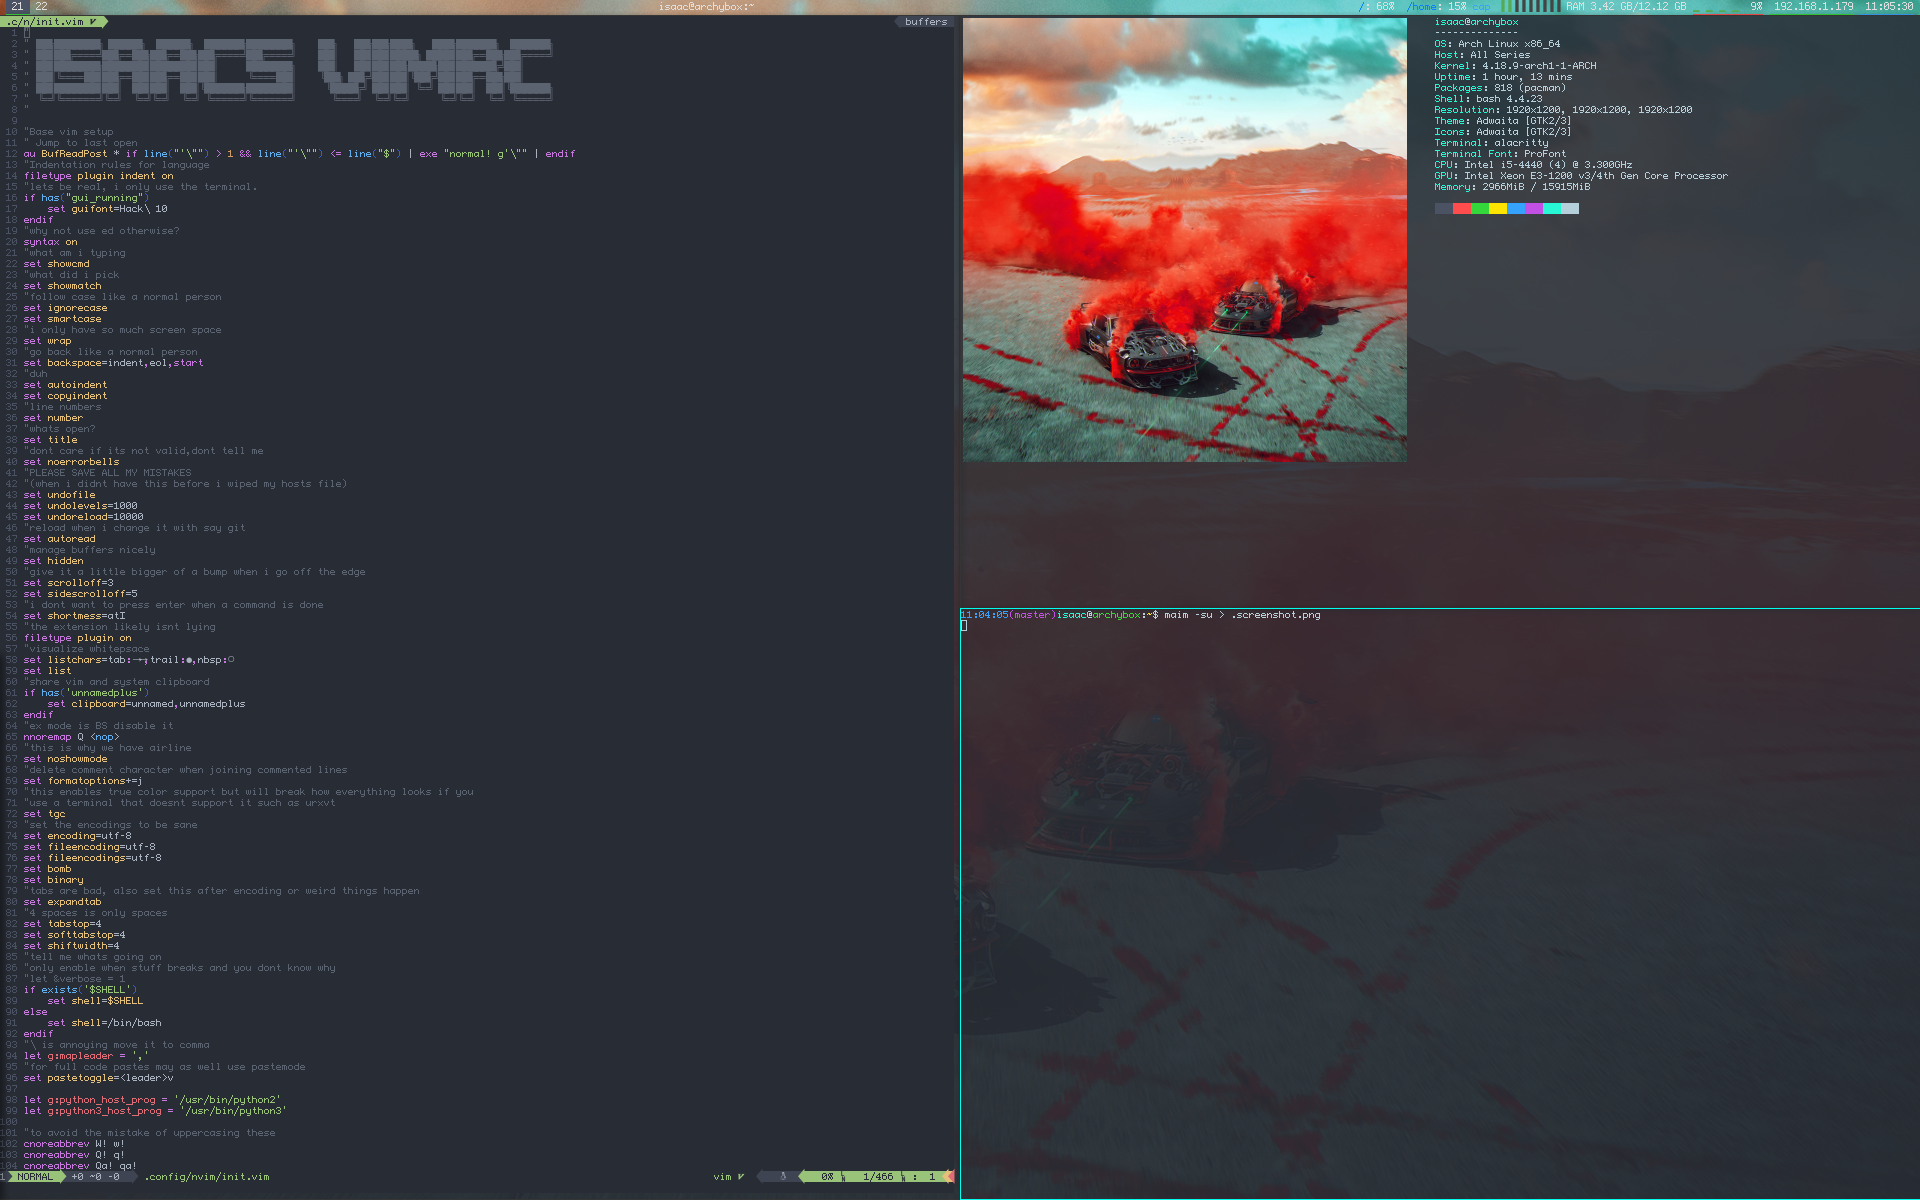
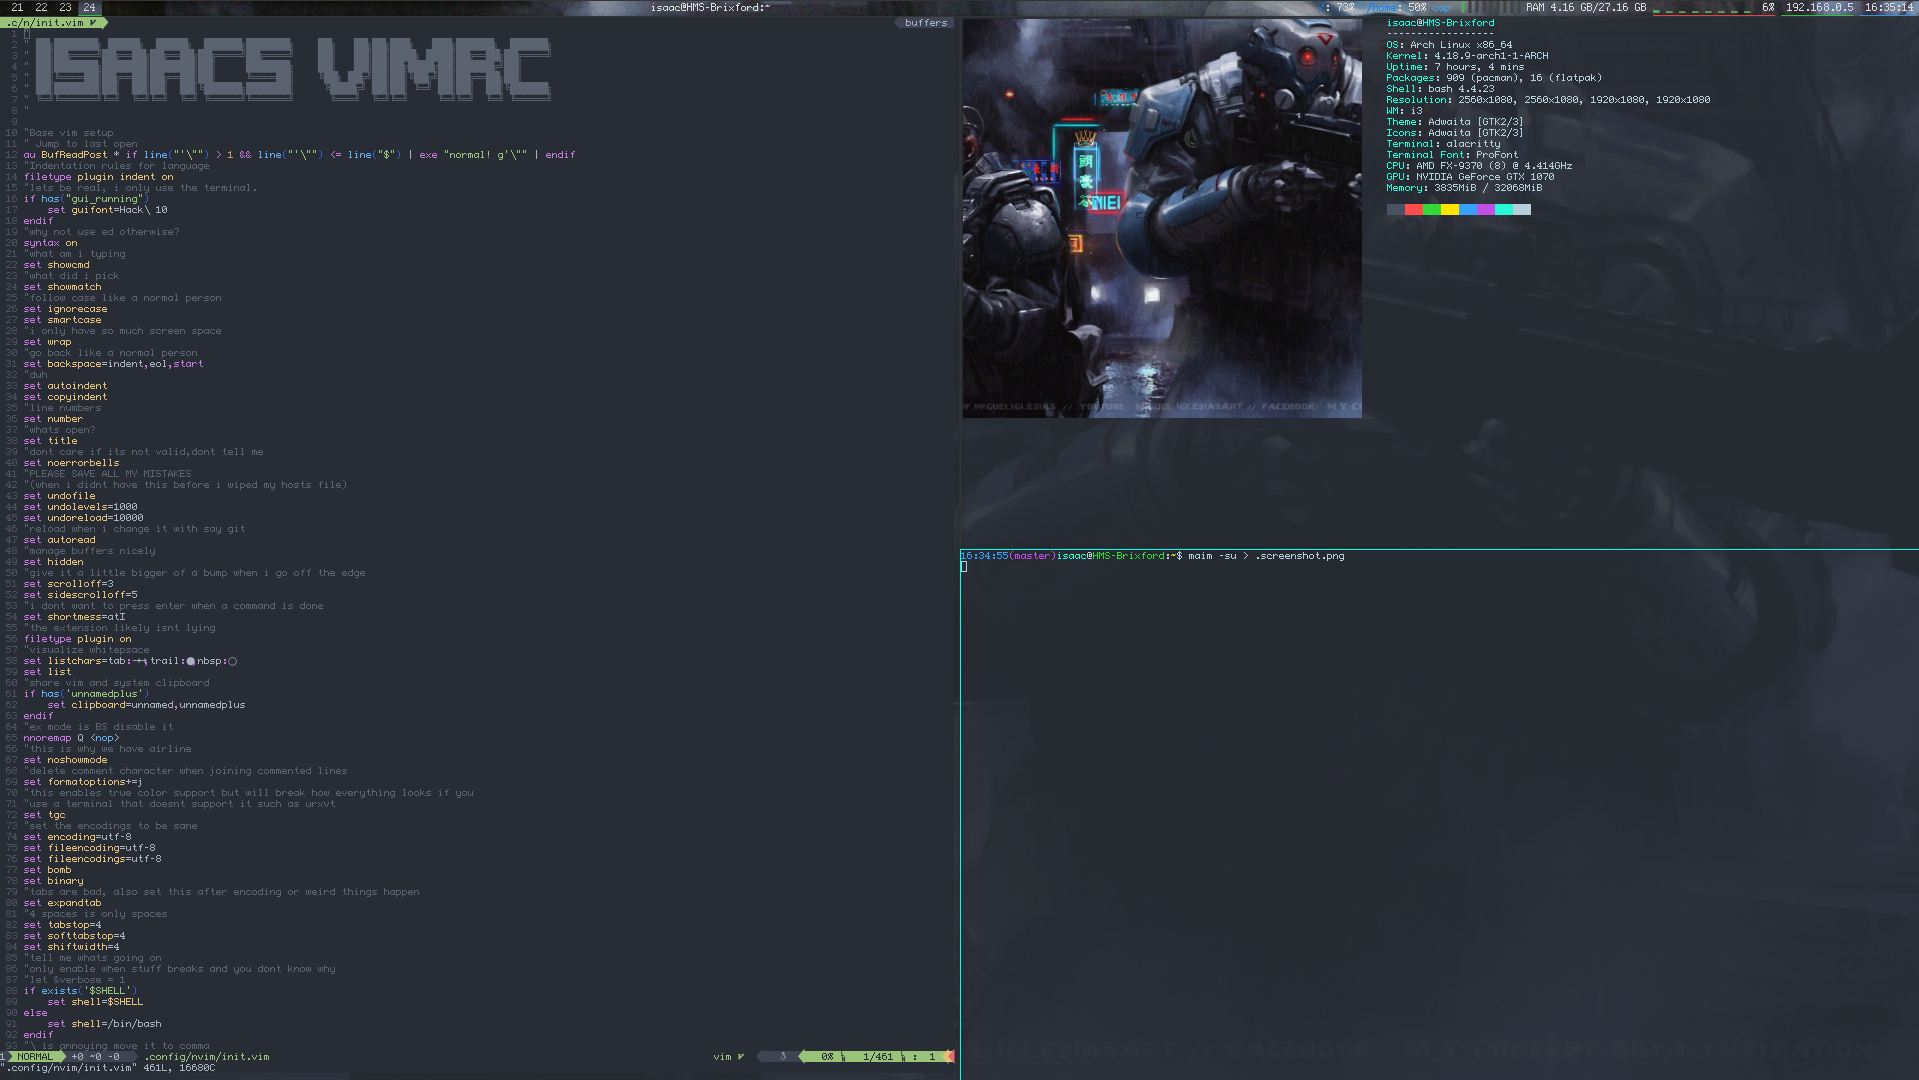
new wp

diff --git a/README.md b/README.md
@@ -33,5 +33,5 @@ these files were also made by reading a lot of others and ive added links to sou
   - launcher: [rofi](https://github.com/DaveDavenport/rofi)
   - compositor: [compton](https://github.com/chjj/compton)
   - lock: [custom similar to i3lock-fancy](https://github.com/isaacmorneau/dotfiles/blob/master/.local/bin/lock)
-  - wallpaper: cyberpunk from [khyzyl saleem](https://www.artstation.com/khyzylsaleem)
+  - wallpaper: cyberpunk from Miguel Iglesias on /r/cyberpunk
 
